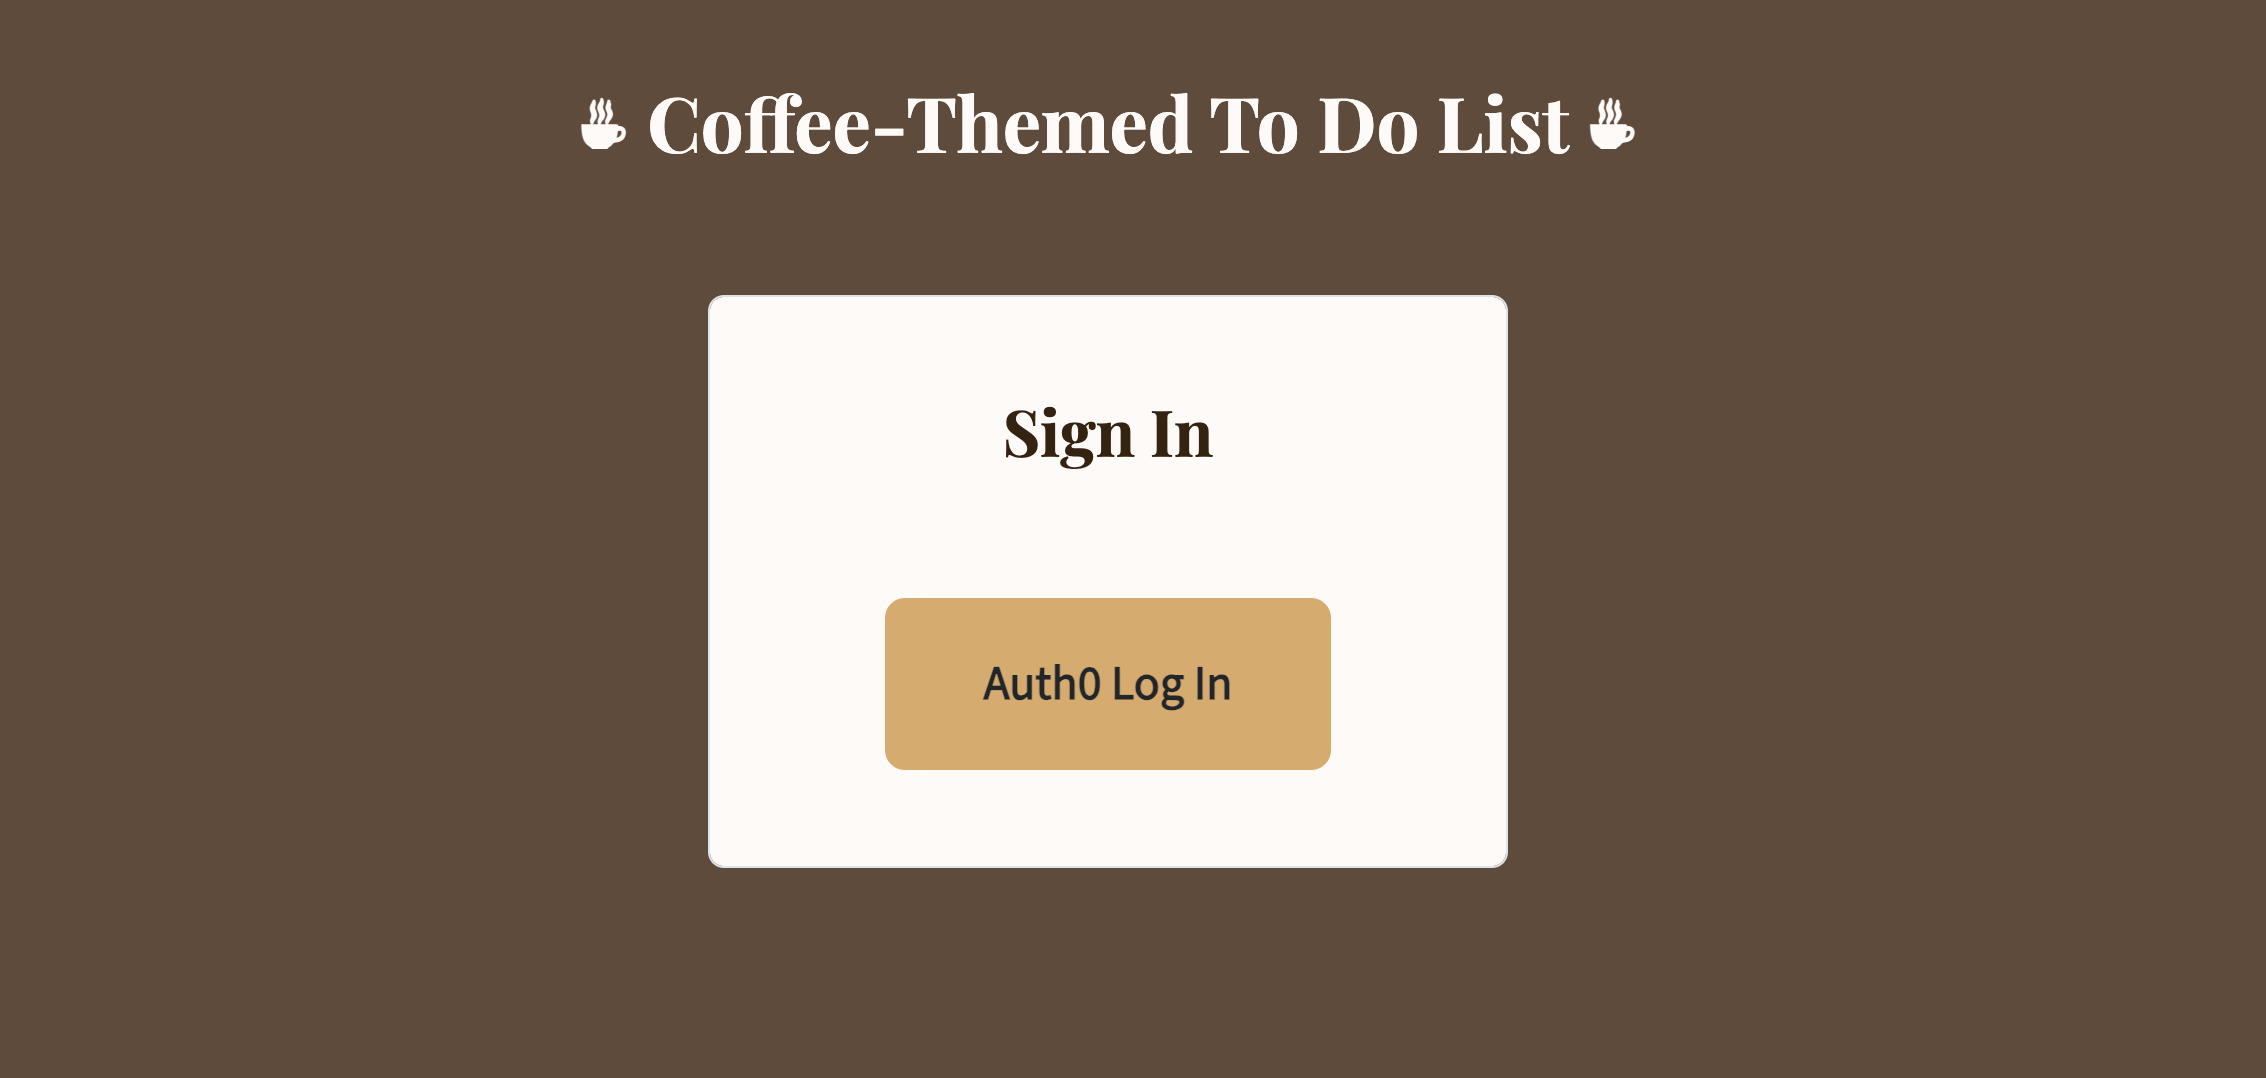
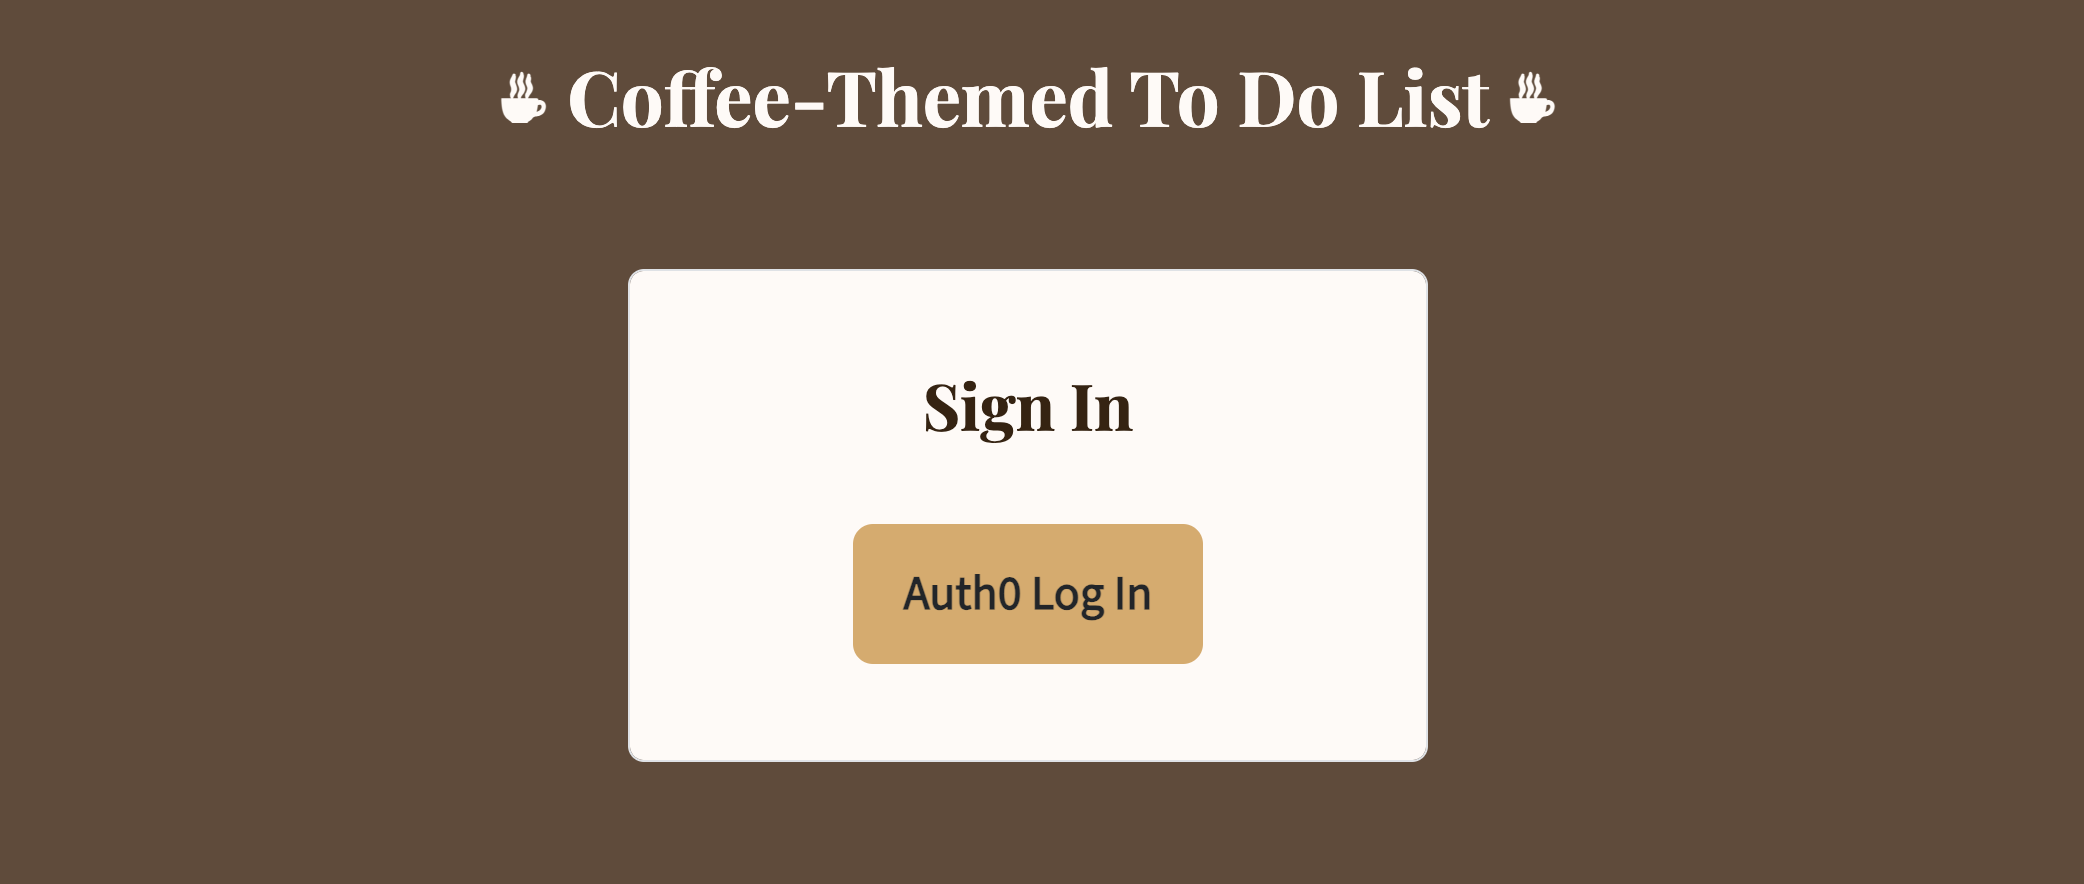
Restyled Log In page.

diff --git a/public/login.html b/public/login.html
@@ -29,8 +29,8 @@
         </header>
         <section class="d-flex justify-content-center mt-5">
             <div class="pt-5 pb-5 ps-5 pe-5 border rounded-3 text-center box-width form-control">
-                <h2 class="text-center fs-2 mb-5">Sign In</h2>
-                <a class="btn btn-lg btn-font fs-4 pe-5 ps-5 pt-4 pb-4 mt-3 text-center btn-org" href="/login">Auth0 Log In</a>
+                <h2 class="text-center fs-2 mb-4">Sign In</h2>
+                <a class="btn btn-lg btn-font fs-4 pe-4 ps-4 pt-3 pb-3 mt-3 text-center btn-org" href="/login">Auth0 Log In</a>
             </div>
         </section>
     </section>
